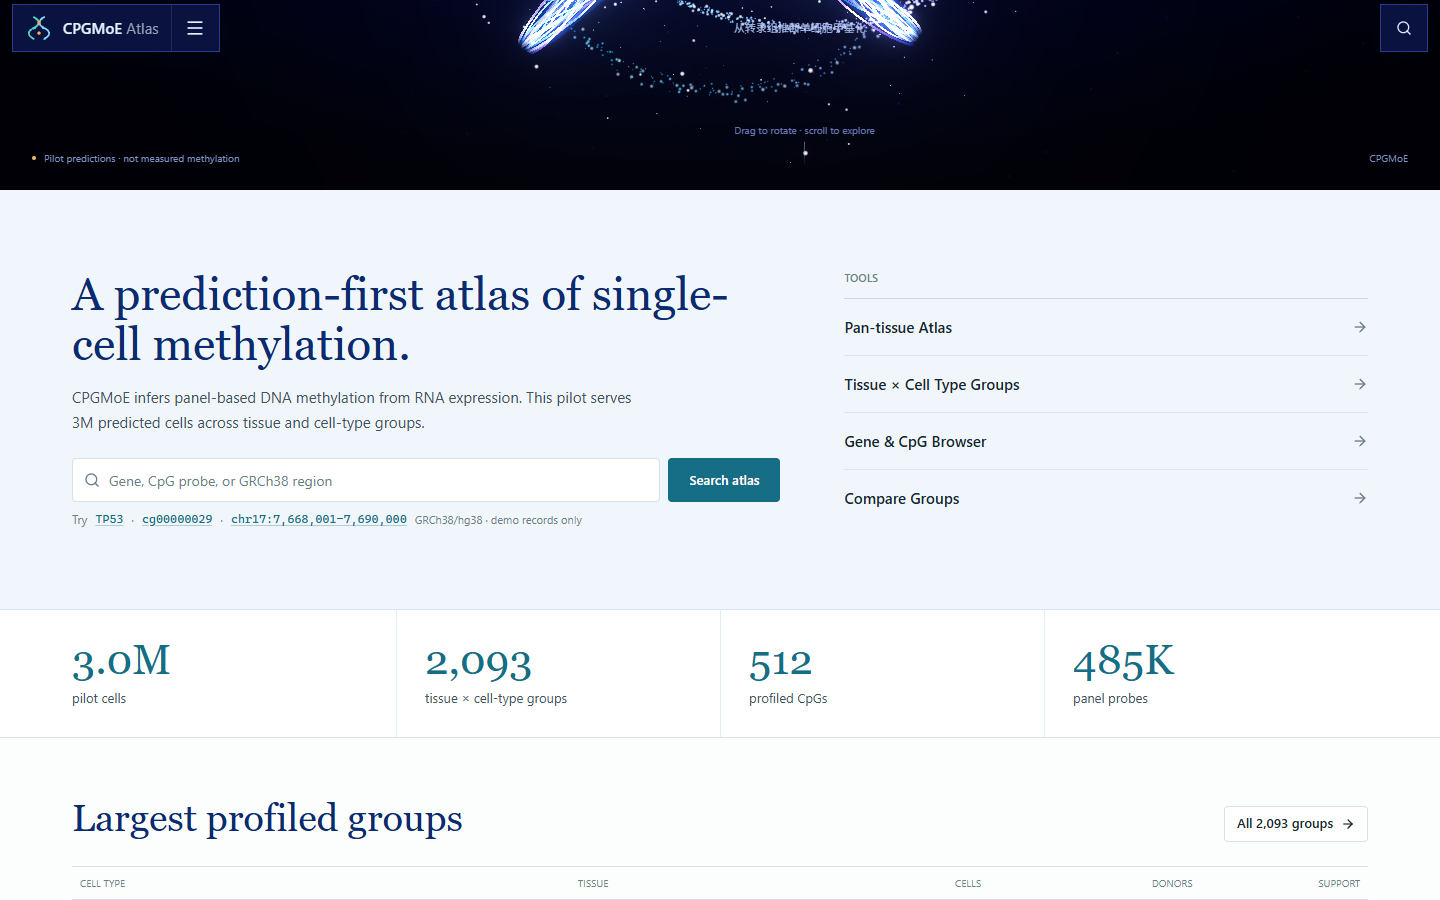
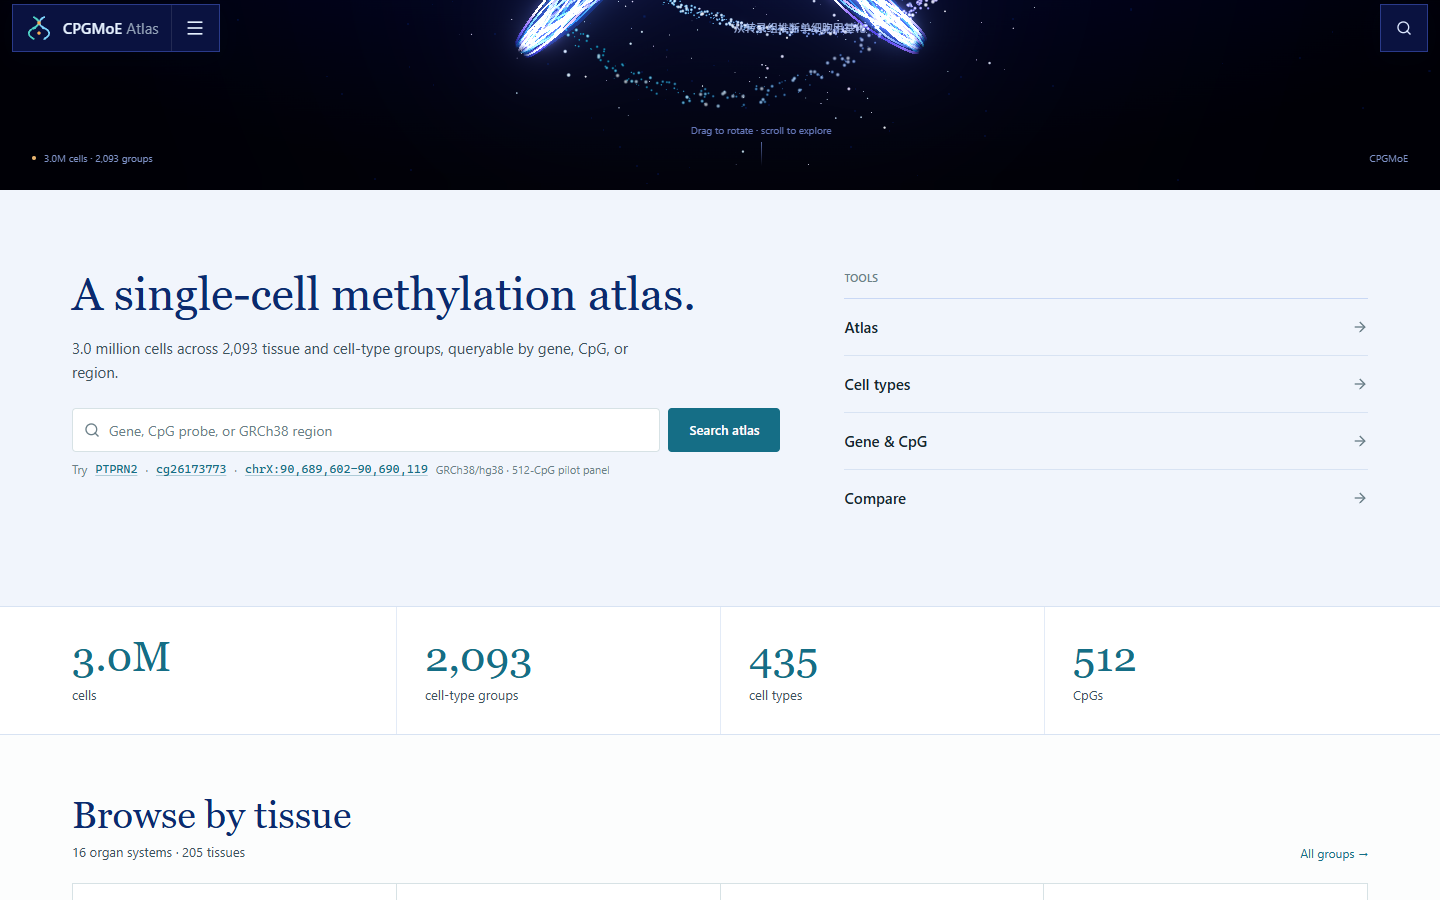
Refocus the homepage on browsing, drop the model/evidence pitch
- Home now reads as a data portal: atlas intro, four counts, tissue tiles,
  largest cell populations, interface previews
- Removed the 'prediction, not measurement' section, model facts table and
  the evidence callout from the homepage
- Banner and hero footer now show release facts instead of disclaimers
- Nav swaps 'Datasets' for 'Cell types' in pilot mode

diff --git a/src/app/page.tsx b/src/app/page.tsx
@@ -1,19 +1,19 @@
 import Link from "next/link";
-import { ArrowRight, ArrowUpRight, ShieldCheck } from "lucide-react";
+import { ArrowRight } from "lucide-react";
 import { CinematicHero } from "@/components/home/cinematic-hero";
 import { VisualTeaser } from "@/components/home/visual-teaser";
 import { GlobalSearch } from "@/components/global-search";
-import { Badge, StatusBadge } from "@/components/ui/badge";
-import { IS_PILOT, MODEL_EVIDENCE_NOTE } from "@/lib/data-mode";
-import { listGroups, pilotRelease } from "@/lib/pilot";
+import { StatusBadge } from "@/components/ui/badge";
+import { IS_PILOT } from "@/lib/data-mode";
+import { listGroups, pilotHeatmap, pilotRelease } from "@/lib/pilot";
 import { DEMO_DATASETS } from "@/mock/datasets";
 
 const TOOLS = IS_PILOT
   ? [
-      { href: "/atlas", title: "Pan-tissue Atlas" },
-      { href: "/groups", title: "Tissue × Cell Type Groups" },
-      { href: "/browser", title: "Gene & CpG Browser" },
-      { href: "/compare", title: "Compare Groups" },
+      { href: "/atlas", title: "Atlas" },
+      { href: "/groups", title: "Cell types" },
+      { href: "/browser", title: "Gene & CpG" },
+      { href: "/compare", title: "Compare" },
     ]
   : [
       { href: "/atlas", title: "Cell Atlas" },
@@ -24,10 +24,10 @@ const TOOLS = IS_PILOT
 
 const METRICS = IS_PILOT
   ? [
-      { value: "3.0M", label: "pilot cells" },
-      { value: "2,093", label: "tissue × cell-type groups" },
-      { value: "512", label: "profiled CpGs" },
-      { value: "485K", label: "panel probes" },
+      { value: "3.0M", label: "cells" },
+      { value: "2,093", label: "cell-type groups" },
+      { value: "435", label: "cell types" },
+      { value: "512", label: "CpGs" },
     ]
   : [
       { value: "450K", label: "panel CpGs" },
@@ -35,23 +35,28 @@ const METRICS = IS_PILOT
       { value: "—", label: "audited cells", tone: "warm" as const },
     ];
 
-const MODEL_FACTS = IS_PILOT
-  ? [
-      ["Model", "CPGMoE · Full-S3"],
-      ["Release", pilotRelease.release_id],
-      ["Checkpoint", `${pilotRelease.checkpoint.sha256.slice(0, 12)}…`],
-      ["Panel", `512 / ${pilotRelease.n_panel_probes.toLocaleString("en-US")} CpGs`],
-    ]
-  : [
-      ["Model", "CPGMoE"],
-      ["Training", "TCGA bulk multi-omics"],
-      ["Target", "450K panel CpGs"],
-      ["Checkpoint", "Not loaded"],
-    ];
+const ORGAN_LABELS: Record<string, string> = {
+  musculoskeletal_connective: "Musculoskeletal & connective",
+  head_neck_oral: "Head & neck / oral",
+  renal_urinary: "Renal & urinary",
+  other_or_unmapped: "Other / unmapped",
+};
+
+function pretty(value: string) {
+  if (ORGAN_LABELS[value]) return ORGAN_LABELS[value];
+  return value
+    .replace(/_/g, " ")
+    .replace(/^./, (character) => character.toUpperCase());
+}
 
 export default function HomePage() {
   const largestGroups = IS_PILOT
     ? [...listGroups()].sort((a, b) => b.n_cells - a.n_cells).slice(0, 6)
+    : [];
+  const organs = IS_PILOT
+    ? pilotHeatmap().organ_systems.filter(
+        (organ) => organ.label !== "other_or_unmapped",
+      )
     : [];
 
   return (
@@ -64,12 +69,12 @@ export default function HomePage() {
             <div>
               <h2 className="max-w-2xl font-serif text-[34px] leading-[1.08] text-[#0B2A6F] sm:text-[46px]">
                 {IS_PILOT
-                  ? "A prediction-first atlas of single-cell methylation."
+                  ? "A single-cell methylation atlas."
                   : "A prediction-first atlas for single-cell methylation."}
               </h2>
               <p className="mt-4 max-w-xl text-[14px] leading-relaxed text-ink-soft sm:text-[15px]">
                 {IS_PILOT
-                  ? "CPGMoE infers panel-based DNA methylation from RNA expression. This pilot serves 3M predicted cells across 2,093 groups."
+                  ? "3.0 million cells across 2,093 tissue and cell-type groups, queryable by gene, CpG, or region."
                   : "CPGMoE infers panel-based DNA methylation from RNA expression."}
               </p>
               <GlobalSearch />
@@ -106,18 +111,13 @@ export default function HomePage() {
           }`}
         >
           {METRICS.map((metric) => (
-            <div
-              key={metric.label}
-              className={`py-7 sm:px-7 sm:first:pl-0 ${
-                !IS_PILOT ? "border-b border-[#E3EBF7] sm:border-b-0" : ""
-              }`}
-            >
+            <div key={metric.label} className="py-7 sm:px-7 sm:first:pl-0">
               <p
-                className={`font-serif leading-none ${
+                className={`font-serif text-[42px] leading-none ${
                   "tone" in metric && metric.tone === "warm"
                     ? "text-warm"
                     : "text-[#156E86]"
-                } text-[42px]`}
+                }`}
               >
                 {metric.value}
               </p>
@@ -127,10 +127,45 @@ export default function HomePage() {
         </div>
       </section>
 
-      <section className="shell py-14">
+      {IS_PILOT ? (
+        <section className="shell py-14">
+          <div className="flex flex-wrap items-end justify-between gap-3">
+            <div>
+              <h2 className="font-serif text-[30px] leading-tight text-[#0B2A6F] sm:text-[38px]">
+                Browse by tissue
+              </h2>
+              <p className="mt-1 text-[13px] text-ink-soft">
+                {organs.length} organ systems · {pilotRelease.n_tissues} tissues
+              </p>
+            </div>
+            <Link href="/groups" className="text-[12px] text-primary hover:underline">
+              All groups →
+            </Link>
+          </div>
+
+          <div className="mt-5 grid gap-px border border-line bg-line sm:grid-cols-2 lg:grid-cols-4">
+            {organs.map((organ) => (
+              <Link
+                key={organ.label}
+                href={`/groups?organ_system=${encodeURIComponent(organ.label)}`}
+                className="group bg-white px-4 py-4 transition-colors hover:bg-[#F7FAFE]"
+              >
+                <p className="tabular text-[10px] text-ink-faint">
+                  {organ.n_groups} groups · {organ.n_cells.toLocaleString("en-US")} cells
+                </p>
+                <p className="mt-1 text-[14px] font-medium text-ink group-hover:text-primary">
+                  {pretty(organ.label)}
+                </p>
+              </Link>
+            ))}
+          </div>
+        </section>
+      ) : null}
+
+      <section className="shell pb-14">
         <div className="flex flex-col gap-4 sm:flex-row sm:items-end sm:justify-between">
           <h2 className="font-serif text-[30px] leading-tight text-[#0B2A6F] sm:text-[38px]">
-            {IS_PILOT ? "Largest profiled groups" : "Featured datasets"}
+            {IS_PILOT ? "Largest cell populations" : "Featured datasets"}
           </h2>
           <Link
             className="btn btn-secondary shrink-0"
@@ -142,51 +177,40 @@ export default function HomePage() {
         </div>
 
         {IS_PILOT ? (
-          <>
-            <div className="mt-6 border-y border-line">
-              <div className="hidden grid-cols-[1.6fr_1.2fr_0.6fr_0.5fr_auto] gap-4 px-2 py-2 text-[10px] uppercase text-ink-faint sm:grid">
-                <span>Cell type</span>
-                <span>Tissue</span>
-                <span>Cells</span>
-                <span>Donors</span>
-                <span className="text-right">Support</span>
-              </div>
-              {largestGroups.map((group) => (
-                <Link
-                  key={group.group_id}
-                  href={`/groups/${group.group_id}`}
-                  className="group grid gap-2 border-t border-line px-2 py-4 transition-colors hover:bg-[#F7FAFE] sm:grid-cols-[1.6fr_1.2fr_0.6fr_0.5fr_auto] sm:items-center sm:gap-4"
-                >
-                  <p className="truncate text-[14px] font-medium text-ink group-hover:text-primary">
-                    {group.cell_type}
-                  </p>
-                  <p className="truncate text-[12px] text-ink-soft">{group.tissue}</p>
-                  <p className="tabular text-[12px] text-ink-soft">
-                    {group.n_cells.toLocaleString("en-US")}
-                  </p>
-                  <p className="tabular text-[12px] text-ink-soft">{group.n_donors}</p>
-                  <div className="flex items-center gap-3 sm:justify-end">
-                    {group.high_confidence ? (
-                      <Badge tone="primary" dot>
-                        High-confidence
-                      </Badge>
-                    ) : (
-                      <span className="text-[10px] text-ink-faint">
-                        {group.n_datasets} studies
-                      </span>
-                    )}
-                    <ArrowRight
-                      className="h-4 w-4 text-ink-faint transition-transform group-hover:translate-x-0.5 group-hover:text-primary"
-                      aria-hidden="true"
-                    />
-                  </div>
-                </Link>
-              ))}
+          <div className="mt-6 border-y border-line">
+            <div className="hidden grid-cols-[1.6fr_1.2fr_0.6fr_0.5fr_auto] gap-4 px-2 py-2 text-[10px] uppercase text-ink-faint sm:grid">
+              <span>Cell type</span>
+              <span>Tissue</span>
+              <span>Cells</span>
+              <span>Donors</span>
+              <span className="text-right">Studies</span>
             </div>
-            <p className="mt-2 text-[10px] text-ink-faint">
-              Aggregated Full-S3 predicted β, not measured methylation.
-            </p>
-          </>
+            {largestGroups.map((group) => (
+              <Link
+                key={group.group_id}
+                href={`/groups/${group.group_id}`}
+                className="group grid gap-2 border-t border-line px-2 py-4 transition-colors hover:bg-[#F7FAFE] sm:grid-cols-[1.6fr_1.2fr_0.6fr_0.5fr_auto] sm:items-center sm:gap-4"
+              >
+                <p className="truncate text-[14px] font-medium text-ink group-hover:text-primary">
+                  {group.cell_type}
+                </p>
+                <p className="truncate text-[12px] text-ink-soft">{group.tissue}</p>
+                <p className="tabular text-[12px] text-ink-soft">
+                  {group.n_cells.toLocaleString("en-US")}
+                </p>
+                <p className="tabular text-[12px] text-ink-soft">{group.n_donors}</p>
+                <div className="flex items-center gap-3 sm:justify-end">
+                  <span className="tabular text-[11px] text-ink-faint">
+                    {group.n_datasets}
+                  </span>
+                  <ArrowRight
+                    className="h-4 w-4 text-ink-faint transition-transform group-hover:translate-x-0.5 group-hover:text-primary"
+                    aria-hidden="true"
+                  />
+                </div>
+              </Link>
+            ))}
+          </div>
         ) : (
           <>
             <div className="mt-6 border-y border-line">
@@ -241,64 +265,19 @@ export default function HomePage() {
         </div>
       </section>
 
-      <section className="bg-white">
-        <div className="shell py-14">
-          <div className="grid gap-10 lg:grid-cols-[1.08fr_0.92fr] lg:gap-16">
-            <div>
-              <h2 className="font-serif text-[30px] leading-tight text-[#0B2A6F] sm:text-[38px]">
-                Prediction, not measurement.
-              </h2>
-              <p className="mt-4 max-w-xl text-[14px] leading-relaxed text-ink-soft">
-                {IS_PILOT
-                  ? "Every β on this site is predicted by Full-S3 and aggregated. No measured single-cell methylome is shipped, and the final pan-human atlas is not released."
-                  : "CPGMoE predicts methylation over a defined 450K panel CpG space. Single-cell use is an inference target, not a measured profile."}
-              </p>
-              <div className="mt-5 flex items-start gap-2 border border-warm/25 bg-warm-wash px-3 py-2 text-[12px] text-warm">
-                <ShieldCheck className="mt-0.5 h-4 w-4 shrink-0" aria-hidden="true" />
-                <span>{MODEL_EVIDENCE_NOTE}</span>
-              </div>
-              <Link
-                href="/methods"
-                className="link-quiet mt-5 inline-flex items-center gap-1 text-[12px]"
-              >
-                Read methods
-                <ArrowUpRight className="h-3.5 w-3.5" aria-hidden="true" />
-              </Link>
-            </div>
-
-            <div>
-              <div className="flex items-end justify-between border-b border-line pb-3">
-                <p className="micro-label">{IS_PILOT ? "Pilot release" : "Phase 0"}</p>
-                <Badge tone={IS_PILOT ? "primary" : "warm"} dot>
-                  {IS_PILOT ? "512-CpG panel" : "Audit in progress"}
-                </Badge>
-              </div>
-              <dl className="grid grid-cols-2 gap-px border border-line bg-line text-[11px]">
-                {MODEL_FACTS.map(([label, value]) => (
-                  <div key={label} className="bg-white px-3 py-2.5">
-                    <dt className="text-[10px] uppercase text-ink-faint">{label}</dt>
-                    <dd className="mt-0.5 truncate font-medium text-ink">{value}</dd>
-                  </div>
-                ))}
-              </dl>
-            </div>
-          </div>
-        </div>
-      </section>
-
       <section className="relative overflow-hidden bg-[#050A2E] text-center text-white">
         <div className="hero-grid pointer-events-none absolute inset-0 opacity-30" />
         <div className="relative shell py-16">
           <h2 className="font-serif text-[38px] leading-tight text-[#F2F6FF] sm:text-[48px]">
-            {IS_PILOT ? "Explore the pilot." : "Enter the atlas."}
+            {IS_PILOT ? "Explore the atlas." : "Enter the atlas."}
           </h2>
           <div className="mt-7 flex flex-wrap justify-center gap-3">
             <Link
-              href={IS_PILOT ? "/atlas" : "/atlas"}
+              href="/atlas"
               className="inline-flex h-11 items-center gap-2 bg-[#5BC8BE] px-5 text-[13px] font-semibold text-[#031318] transition-colors hover:bg-[#7ADBD1]"
               style={{ borderRadius: 3 }}
             >
-              {IS_PILOT ? "Open the heatmap" : "Open Cell Atlas"}
+              Open the heatmap
               <ArrowRight className="h-4 w-4" aria-hidden="true" />
             </Link>
             <Link

diff --git a/src/app/groups/page.tsx b/src/app/groups/page.tsx
@@ -6,7 +6,7 @@ import { IS_PILOT } from "@/lib/data-mode";
 import { listGroups, pilotRelease } from "@/lib/pilot";
 
 export const metadata: Metadata = {
-  title: "Groups",
+  title: "Cell types",
   description:
     "Tissue and cell-type groups profiled by the CPGMoE 3M-cell Full-S3 pilot.",
 };
@@ -73,7 +73,7 @@ export default async function GroupsPage({
       <div className="flex flex-col gap-3 border-b border-line pb-4 lg:flex-row lg:items-end lg:justify-between">
         <div>
           <h1 className="text-[28px] font-semibold leading-tight text-ink">
-            Tissue × cell-type groups
+            Cell types &amp; tissues
           </h1>
           <p className="mt-2 max-w-3xl text-[14px] leading-relaxed text-ink-soft">
             {pilotRelease.n_groups.toLocaleString("en-US")} groups with cell,

diff --git a/src/app/atlas/page.tsx b/src/app/atlas/page.tsx
@@ -33,8 +33,8 @@ export default async function AtlasPage({
               Pan-tissue Atlas
             </h1>
             <p className="mt-2 max-w-3xl text-[14px] leading-relaxed text-ink-soft">
-              Aggregated Full-S3 predicted β across 2,093 tissue and cell-type
-              groups. Heatmap first; no per-cell profiles in the browser.
+              Aggregated predicted β across 2,093 tissue and cell-type groups.
+              Heatmap first; no per-cell profiles in the browser.
             </p>
           </div>
           <div className="flex shrink-0 flex-wrap items-center gap-2">

diff --git a/src/components/home/cinematic-hero.tsx b/src/components/home/cinematic-hero.tsx
@@ -87,7 +87,7 @@ export function CinematicHero() {
           <span className="inline-flex items-center gap-2">
             <span className="h-1 w-1 rounded-full bg-[#E6B36F]" aria-hidden="true" />
             {IS_PILOT
-              ? "Pilot predictions · not measured methylation"
+              ? "3.0M cells · 2,093 groups"
               : "Synthetic demo · audit in progress"}
           </span>
           <span className="hidden flex-col items-center gap-1 text-[#8FA9FF]/70 sm:flex">

diff --git a/src/lib/data-mode.ts b/src/lib/data-mode.ts
@@ -36,9 +36,9 @@ export const ACTIVE_DATA_MODE: AtlasMode =
 export const IS_PILOT = ACTIVE_DATA_MODE === "pilot_predicted";
 
 export const MODE_BANNER = IS_PILOT
-  ? "Pilot predictions — not measured methylation"
+  ? "Pilot release"
   : "Demo environment — synthetic data only";
 
 export const MODE_BANNER_DETAIL = IS_PILOT
-  ? "3M-cell Full-S3 pilot · 512-CpG web panel"
+  ? "3.0M cells · 2,093 groups · 512 CpGs"
   : "Illustrative values only.";

diff --git a/src/components/site-header.tsx b/src/components/site-header.tsx
@@ -18,9 +18,8 @@ const BASE_LINKS = [
 
 const PRIMARY_LINKS = IS_PILOT
   ? [
-      { href: "/datasets", label: "Datasets" },
       { href: "/atlas", label: "Atlas" },
-      { href: "/groups", label: "Groups" },
+      { href: "/groups", label: "Cell types" },
       { href: "/browser", label: "Gene & CpG" },
       { href: "/compare", label: "Compare" },
       { href: "/downloads", label: "Downloads" },
